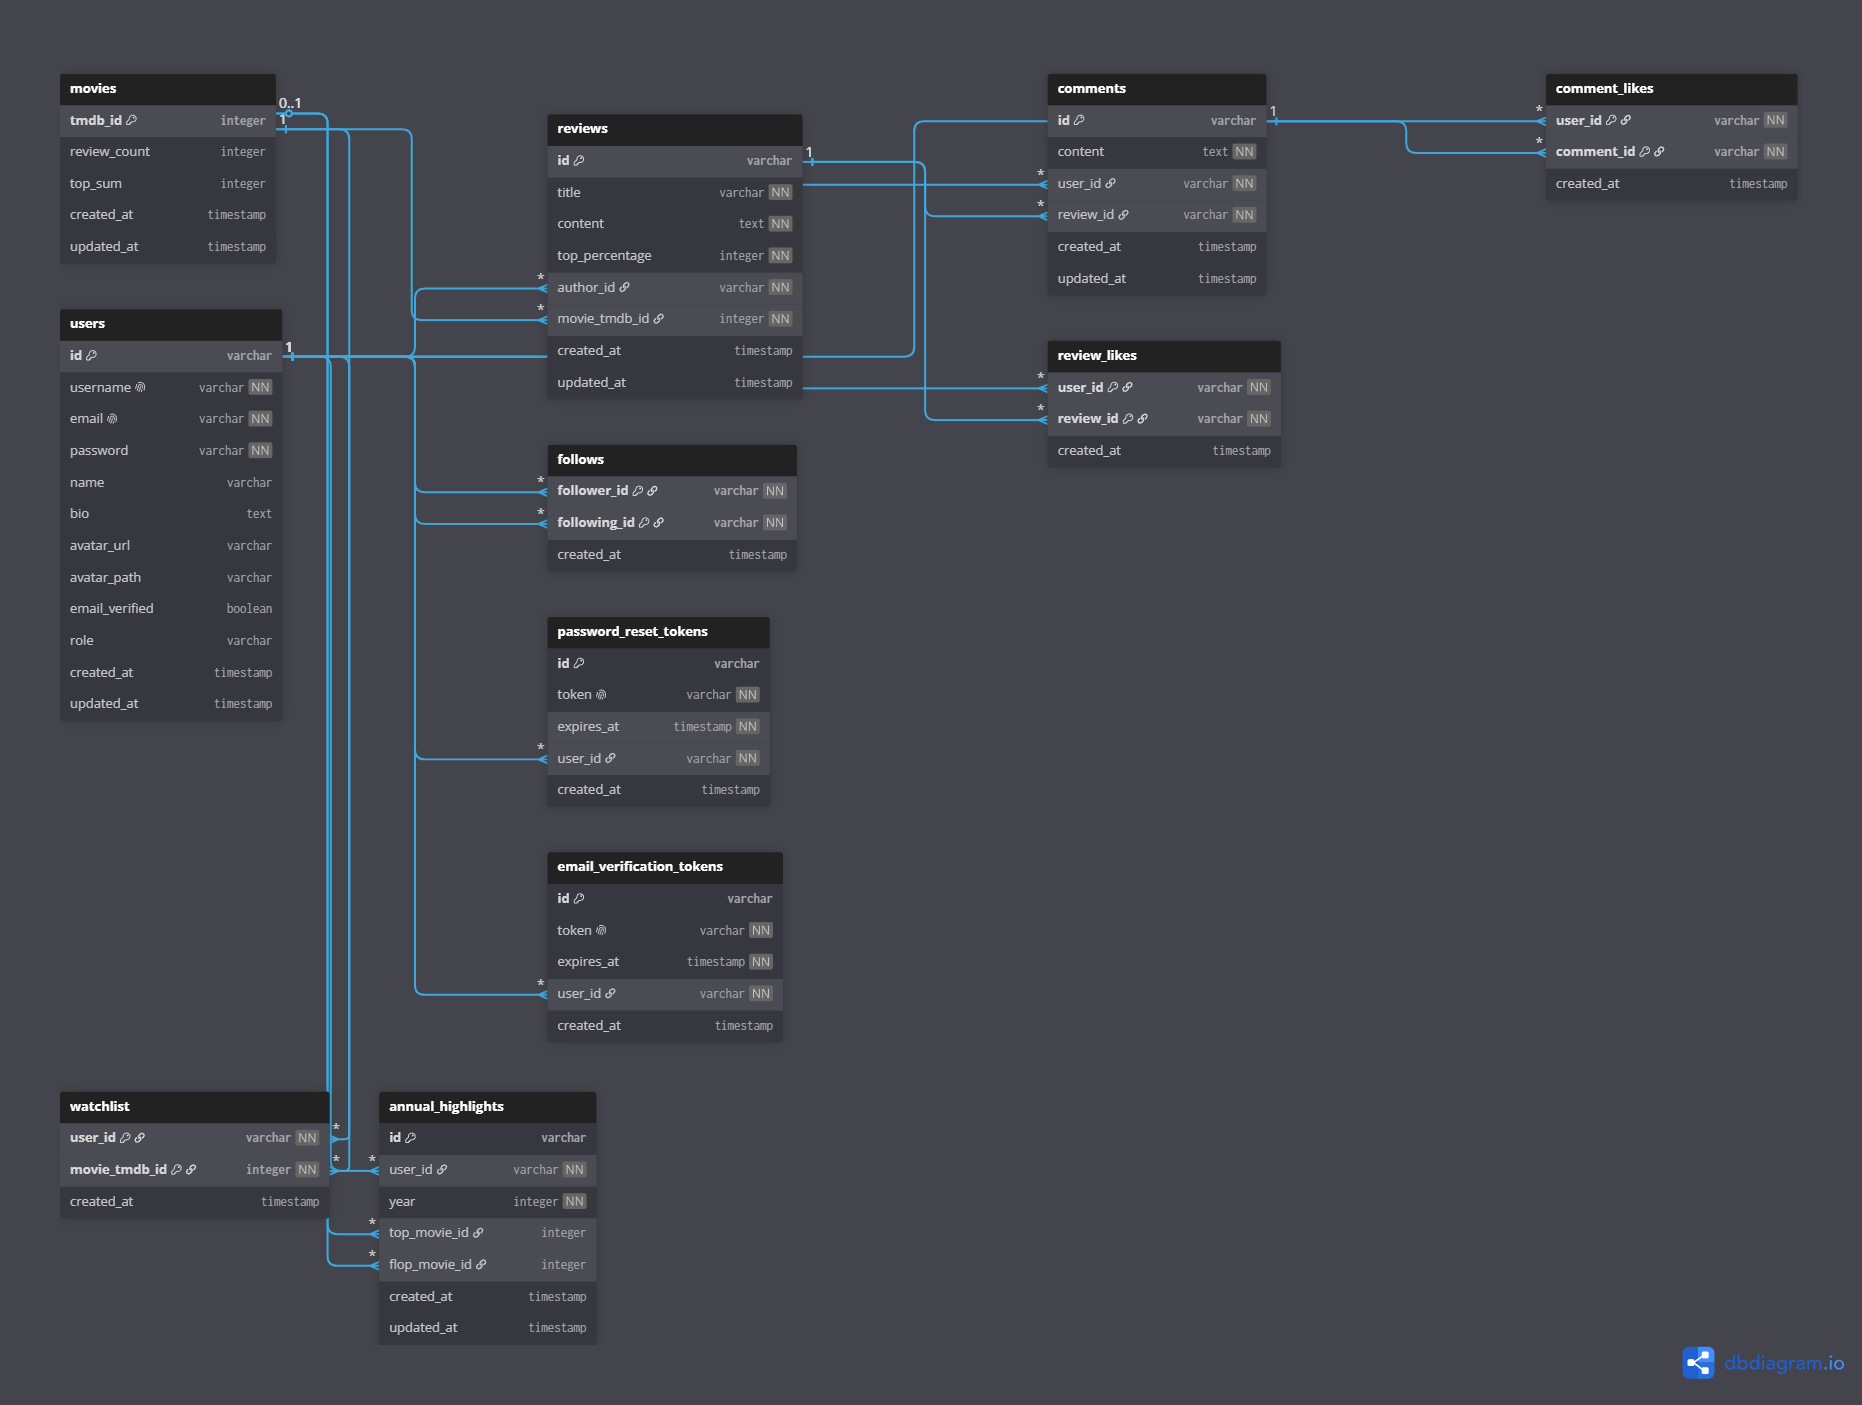
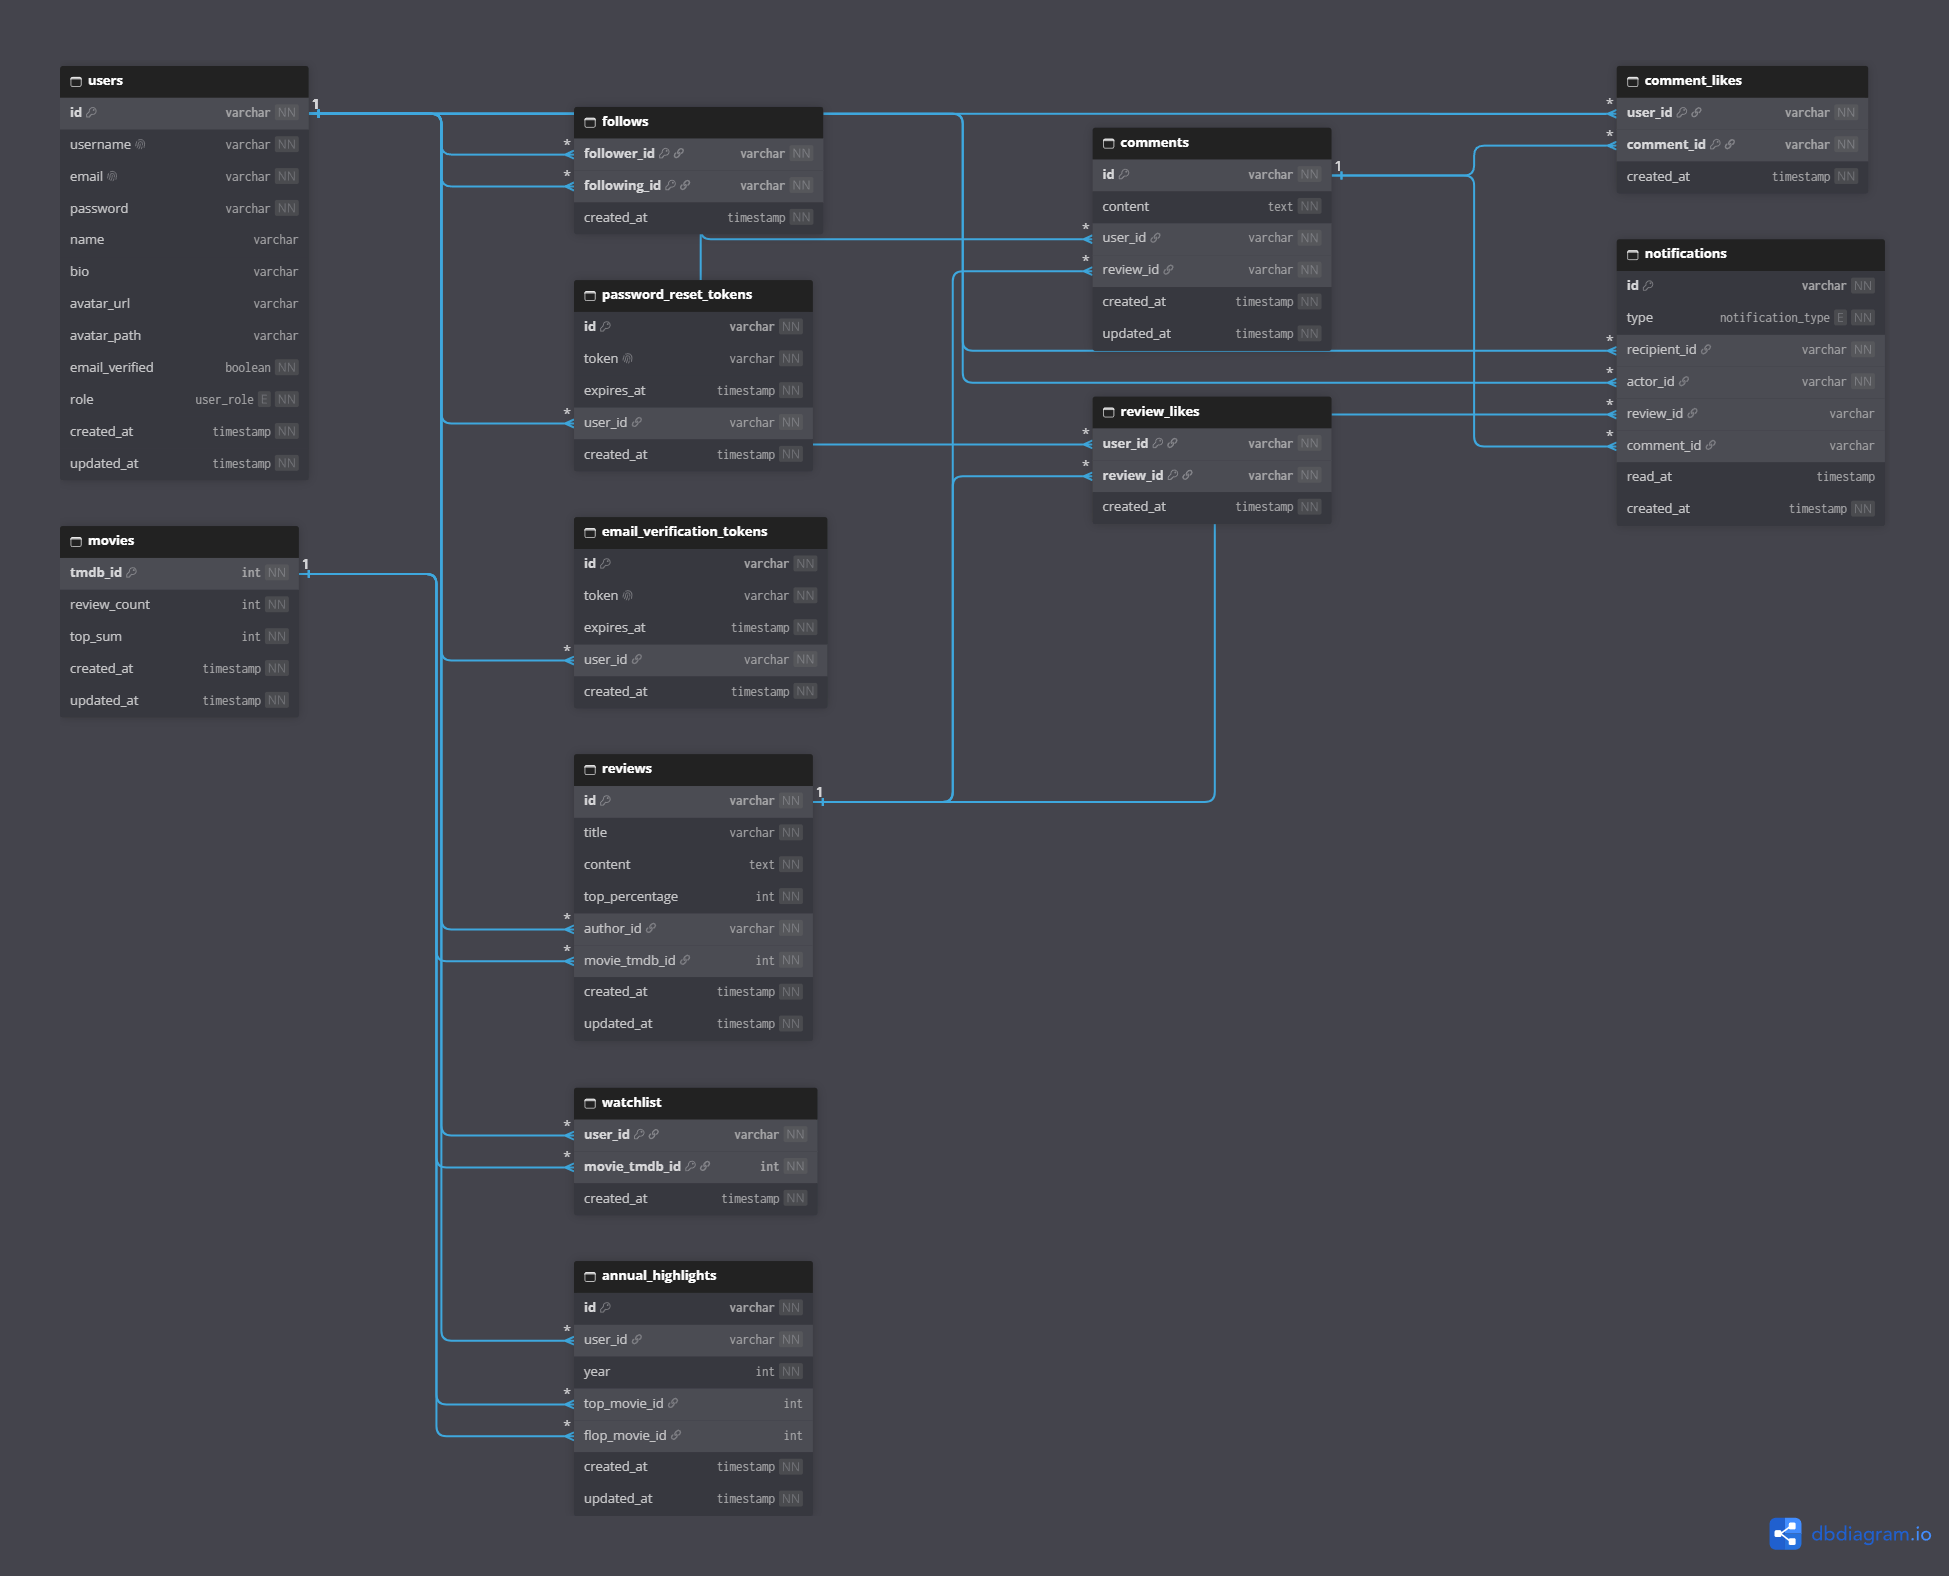
chore: add image asset

diff --git a/README.md b/README.md
@@ -10,11 +10,11 @@
 </p>
 
 <p align="center">
-  <img src="./docs/topflop-desktop.png" alt="Telas do TopFlop no desktop: feed de reviews, descoberta de filmes, página do filme e perfil" width="100%">
+  <img src="./assets/topflop-desktop.png" alt="Telas do TopFlop no desktop: feed de reviews, descoberta de filmes, página do filme e perfil" width="100%">
 </p>
 
 <p align="center">
-  <img src="./docs/topflop-mobile.png" alt="Telas do TopFlop no celular: feed de reviews, descoberta de filmes e perfil" width="100%">
+  <img src="./assets/topflop-mobile.png" alt="Telas do TopFlop no celular: feed de reviews, descoberta de filmes e perfil" width="100%">
 </p>
 
 ---

diff --git a/frontend/README.md b/frontend/README.md
@@ -6,7 +6,7 @@ Em produção: **[topflop.vercel.app](https://topflop.vercel.app)**
 
 > Visão geral do projeto (frontend + backend): [README da raiz](../README.md)
 
-![Telas do TopFlop no desktop](../docs/topflop-desktop.png)
+![Telas do TopFlop no desktop](../assets/topflop-desktop.png)
 
 ---
 
